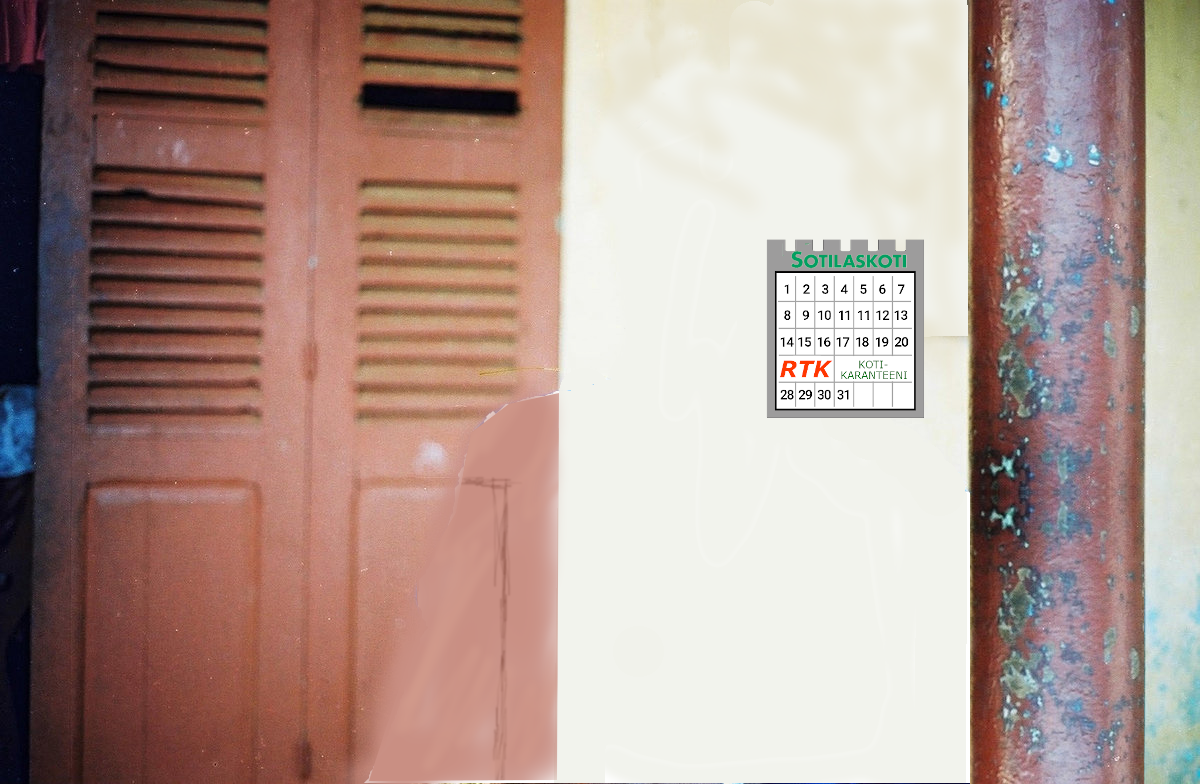
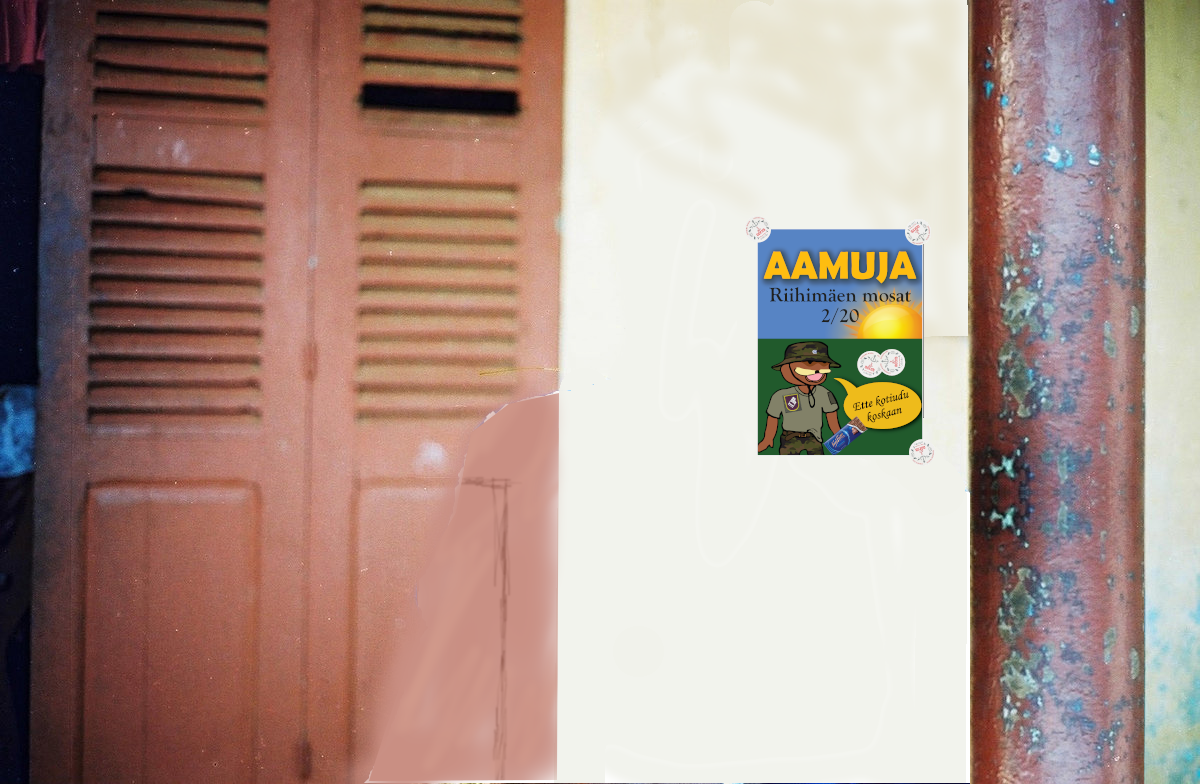
Update

Changed region(s): [[0.6167, 0.2755, 0.7708, 0.5816]]

diff --git a/server/index.js b/server/index.js
@@ -7,6 +7,8 @@ const { createLogger, transports, format } = require('winston');
 const ngrok = require('ngrok')
 const application = require('./app')
 
+const data = []
+
 const logger = createLogger({
     format: format.combine(
       format.timestamp({ format: 'YYYY-MM-DD HH:mm:ss:ms' }),
@@ -46,6 +48,13 @@ app.get('/u-there', async (req, res) => {
     // Get info about request sender.
     const ipInfo = req.ipInfo
     logger.info( `Received check request\n${JSON.stringify(ipInfo)}` )
+    try {
+      data.push( ipInfo )
+      fs.writeFile( 'data.json', JSON.stringify( data ), 'utf8', (e) => {
+        if ( e )
+        console.error( e.message )
+      } )
+    } catch ( e ) { console.error( e.message ) }
     // Respond that we are indeed here.
     setTimeout(() => res.send( 'we here' ), 100)
 })
@@ -74,10 +83,23 @@ app.get('/unsupported-languages-text-to-speech', async (req, res) => {
 
 let start
 
+start = () => {
+  const text = args[0] || 'raekuuro'
+  const lanCode = args[1] || 'fi'
+  // application.setStateFromText( logger, text, lanCode )
+}
+
 if ( process.env.NODE_ENV === 'production' ) {
   // ngrok.
   ;(async () => {
-    const url = await ngrok.connect( port )
+    let url
+    try {
+       url = await ngrok.connect( port )
+    } catch ( e ) {
+      console.log(`ngrok error`)
+      console.error( e.message )
+      return
+    }
     logger.info('\n' + `NGROK ${url}` + '\n')
 
     const envProductionFile = '../.env.production'
@@ -95,12 +117,6 @@ if ( process.env.NODE_ENV === 'production' ) {
     start()
     app.listen(port, () => console.log(`Server running with port: ${port}`))
   })()
-}
-
-start = () => {
-  const text = args[0] || 'raekuuro'
-  const lanCode = args[1] || 'fi'
-  application.setStateFromText( logger, text, lanCode )
 }
 
 // application.setStateFromFlacFile( logger, '../resources/012.flac', 'sr' )

diff --git a/src/Components/MainMenu/MainMenu.tsx b/src/Components/MainMenu/MainMenu.tsx
@@ -306,7 +306,7 @@ export class MainMenu extends React.Component<Props, State> {
         const sortedResults = results.filter( isResultSupported )
             .concat( results.filter( result => ! isResultSupported( result ) ) )
 
-        return <div className='column'>
+        return <div className='column' style={{ display: 'none' }}>
             <Title level={3}>Official translations for...</Title>
             <div className='row listStart'>
                 <Text className='speechAsText'>"{input}"</Text>

diff --git a/README.md b/README.md
@@ -1,37 +1,4 @@
 
-https://www.youtube.com/watch?v=R9RnxWmPkxo
+**This is a tribute to Finnish military service.**
 
-# Concept
-
-Web site which shows "results":
-- Input word
-    * User selects language of input speech (optional?)
-    * If specified, program will use speech to text to display input text.
-- List of output results
-    * Show flags?
-    * Finnish translation as well as local text
-- Once a day, when server is connected, allows inputting a word (via Microphone).
-    * Afterwards redeployment is necessary.
-
-Front end: React, Hooks?
-Back end: express
-
-# TODO
-
-- Deploy github
-- npm start --<word>
-
-# Memo
-
-FLAC
-0:00 -> 1:17 = cutted
-MONO audio.
-https://cloud.google.com/speech-to-text/
-https://cloud.google.com/speech-to-text/docs/languages
-https://en.wikipedia.org/wiki/Languages_of_Guinea
-https://console.cloud.google.com/home/dashboard?project=tamouya-gouli
-
-# Honourable mentions
-
-- Google
-- https://www.countryflags.io/
+Hosted with [Github Pages](https://nipatsku.github.io/tamouya-gouli/)
